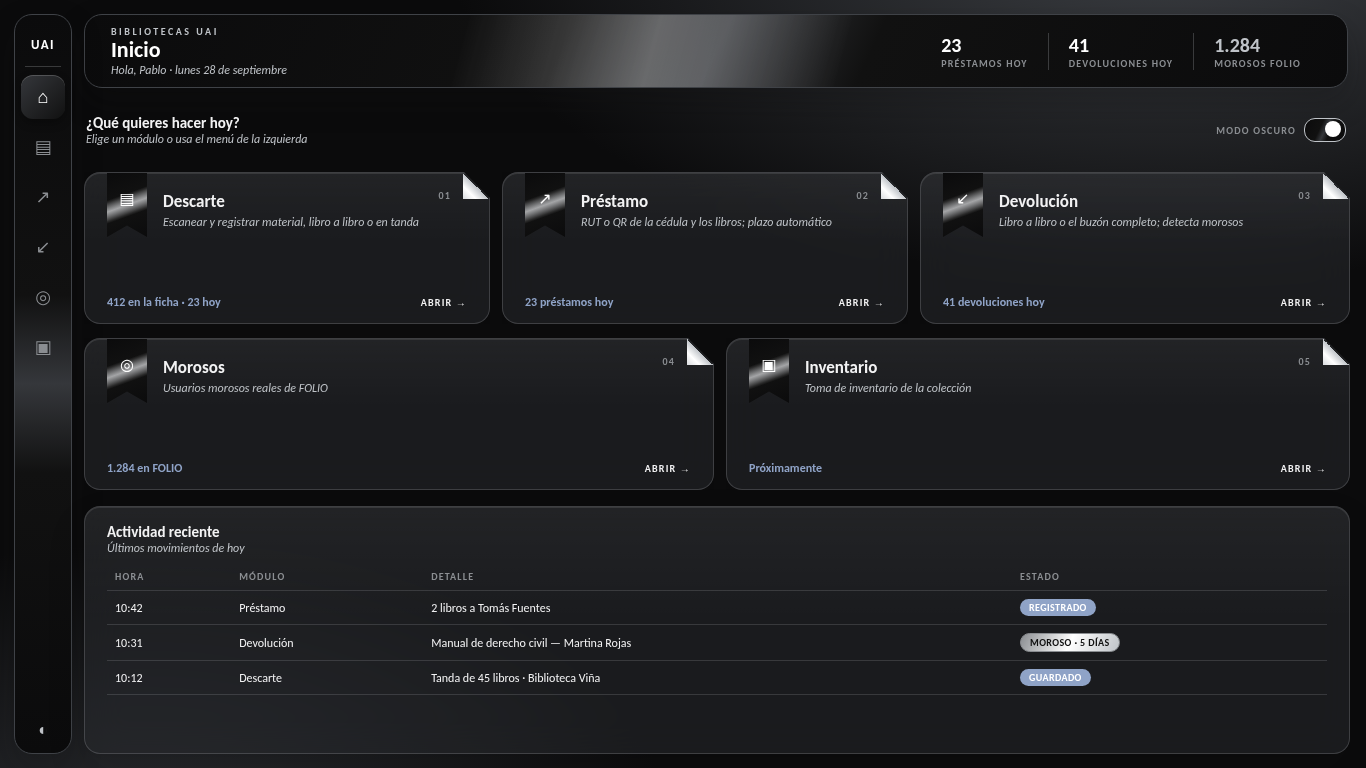
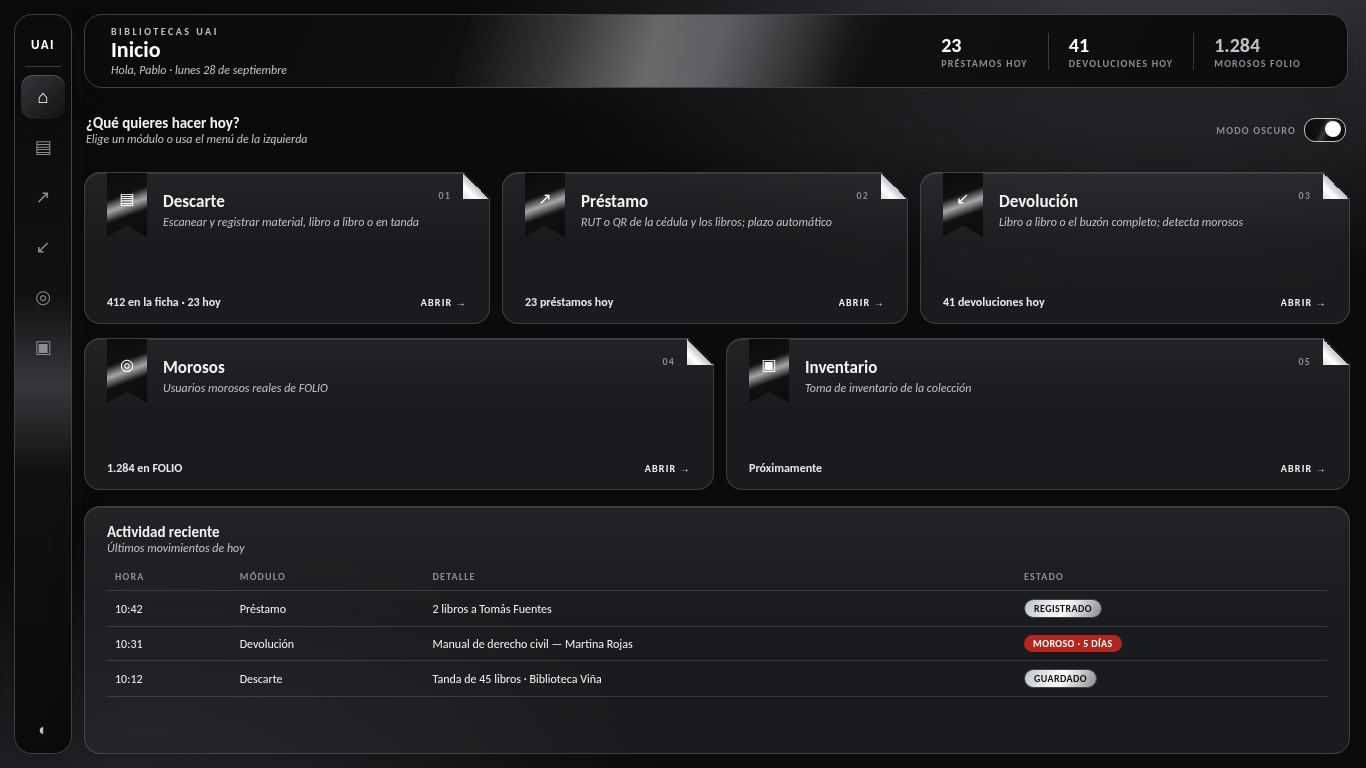
Boceto v4: sin azules (blanco→negro, plata), rojo solo morosos; carné de biblioteca en Préstamo
Claude-Session: https://claude.ai/code/session_018uFU4P9QkaWXr2H5UAix7x

diff --git a/diseno/boceto4.py b/diseno/boceto4.py
@@ -3,10 +3,10 @@ def tema(oscuro):
     if oscuro:
         return dict(bg="radial-gradient(1200px 600px at 85% -10%,#3F4247 0%,transparent 60%),radial-gradient(900px 500px at 10% 110%,#2a2c30 0%,transparent 60%),#0B0B0C",
                     glass="rgba(40,42,46,0.55)", gb="rgba(191,195,200,0.22)", hi="rgba(255,255,255,0.10)",
-                    tx="#F2F2F3", sub="#BFC3C8", mut="#8A8D91", line="rgba(191,195,200,0.18)", inp="rgba(255,255,255,0.06)", pos="#8FA3C7")
+                    tx="#F2F2F3", sub="#BFC3C8", mut="#8A8D91", line="rgba(191,195,200,0.18)", inp="rgba(255,255,255,0.06)", pos="#E6E7E9")
     return dict(bg="radial-gradient(1100px 560px at 88% -12%,#DADCDF 0%,transparent 62%),radial-gradient(900px 520px at 6% 112%,#E3E5E8 0%,transparent 60%),#F4F4F5",
                 glass="rgba(255,255,255,0.62)", gb="rgba(255,255,255,0.9)", hi="rgba(255,255,255,0.9)",
-                tx="#111111", sub="#3F4247", mut="#8A8D91", line="rgba(17,17,17,0.08)", inp="rgba(255,255,255,0.85)", pos="#1B2A4A")
+                tx="#111111", sub="#3F4247", mut="#8A8D91", line="rgba(17,17,17,0.08)", inp="rgba(255,255,255,0.85)", pos="#111111")
 F = "font-family:Carlito,Calibri,sans-serif"
 DARK = "background:linear-gradient(115deg,#0B0B0C 0%,#111111 38%,#35373B 50%,#111111 62%,#0B0B0C 100%)"
 SHINE = ("<div style='position:absolute;inset:0;background:linear-gradient(105deg,transparent 30%,rgba(255,255,255,0.55) 45%,transparent 60%);"
@@ -25,7 +25,7 @@ def css(t):
     .in{{position:absolute;box-sizing:border-box;height:34px;border-radius:10px;background:{t['inp']};border:1px solid {t['line']};{F};font-size:12px;color:{t['tx']};
          display:flex;align-items:center;padding:0 12px;box-shadow:inset 0 1px 2px rgba(17,17,17,0.06)}}
     .pill{{display:inline-block;padding:2px 9px;border-radius:999px;{F};font-size:10px;font-weight:700;letter-spacing:.4px}}
-    .pos{{background:{t['pos']};color:#fff}}
+    .pos{{background:{'linear-gradient(115deg,#35373B,#111111)' if t['pos']=='#111111' else 'linear-gradient(115deg,#BFC3C8,#FFFFFF 50%,#8A8D91)'};color:{'#fff' if t['pos']=='#111111' else '#111'};border:1px solid #3F4247}}
     .pl{{background:linear-gradient(115deg,#8A8D91,#FFFFFF 50%,#BFC3C8);color:#111;border:1px solid #8A8D91}}
     table{{width:100%;border-collapse:collapse;{F};font-size:12px;color:{t['tx']}}}
     th{{text-align:left;font-size:10px;letter-spacing:1.2px;color:{t['mut']};font-weight:700;padding:7px 8px;border-bottom:1px solid {t['line']}}}
@@ -77,7 +77,7 @@ def inicio(oscuro):
     b+=(f"<div class='g' style='left:84px;top:506px;width:1264px;height:246px'><div style='padding:16px 22px'><div class='h1'>Actividad reciente</div><div class='h2'>Últimos movimientos de hoy</div>"
         "<table style='margin-top:8px'><tr><th>HORA</th><th>MÓDULO</th><th>DETALLE</th><th>ESTADO</th></tr>"
         f"<tr><td>10:42</td><td>Préstamo</td><td>2 libros a Tomás Fuentes</td><td><span class='pill pos'>REGISTRADO</span></td></tr>"
-        f"<tr><td>10:31</td><td>Devolución</td><td>Manual de derecho civil — Martina Rojas</td><td><span class='pill pl'>MOROSO · 5 DÍAS</span></td></tr>"
+        f"<tr><td>10:31</td><td>Devolución</td><td>Manual de derecho civil — Martina Rojas</td><td><span class='pill' style='background:#B3261E;color:#fff'>MOROSO · 5 DÍAS</span></td></tr>"
         f"<tr><td>10:12</td><td>Descarte</td><td>Tanda de 45 libros · Biblioteca Viña</td><td><span class='pill pos'>GUARDADO</span></td></tr></table></div></div>")
     return screen(b,t,'v4_inicio_'+('oscuro' if oscuro else 'claro'),oscuro)
 
@@ -98,10 +98,7 @@ def prestamo():
         f"<div style='flex:1'><div class='cap'>Correo al usuario</div><div class='in' style='position:relative;margin-top:4px'>Enviar resumen<span style='margin-left:auto'>⌄</span></div></div></div>"
         f"<div class='cap' style='margin-top:12px'>Observaciones</div><div class='in' style='position:relative;margin-top:4px'></div>"
         f"<div class='p' style='margin-top:14px;font-style:italic;color:{t['mut']}'>Libro 28 días · iPad 14 · Kindle 28 · calculadora, test y mapa 1 día · colección histórica solo sala</div></div></div>")
-    b+=(f"<div class='g' style='left:570px;top:104px;width:778px;height:150px;border:1.5px solid #B3261E;box-shadow:0 0 0 3px rgba(179,38,30,.12),0 18px 40px rgba(17,17,17,.10)'><div style='padding:18px 22px'>"
-        f"<div class='cap' style='color:{t['pos']}'>● Usuario encontrado en FOLIO</div><div class='h1' style='font-size:19px;margin-top:4px'>Tomás Fuentes Díaz</div>"
-        f"<div class='h2'>RUT 19.874.302-5 · Pregrado · Facultad de Derecho · Derecho</div>"
-        f"<div style='display:flex;gap:26px;margin-top:10px;align-items:center' class='p'><span><b style='color:{t['tx']}'>2</b> préstamos activos</span><span><b style='color:{t['tx']}'>1</b> vencido hace 10 días</span><span style='margin-left:auto' class='pill pl'>MOROSO</span></div></div></div>")
+    b+=carne(570,104,778,150,'Tomás Fuentes Díaz','TF','19.874.302-5','Pregrado','Facultad de Derecho','Derecho',2,1,True)
     rows=[('000101','Imposición fiscal en los países en desarrollo','Libro','28 DÍAS','26-10-2026',1),('IP-014','iPad 10ª gen. N° 14','iPad','14 DÍAS','12-10-2026',1),
           ('CA-203','Calculadora Casio fx-991','Calculadora','1 DÍA','29-09-2026',1),('H-00931','Crónica del Reino de Chile (1865)','Col. histórica','SOLO SALA','—',0)]
     tr=''.join(f"<tr><td><b>{a}</b></td><td>{b_}</td><td>{c}</td><td><span class='pill {'pos' if ok else 'pl'}'>{d}</span></td><td>{e}</td><td style='color:{t['mut']}'>✕</td></tr>" for a,b_,c,d,e,ok in rows)
@@ -112,6 +109,25 @@ def prestamo():
         f"<div class='g' style='left:1174px;top:680px;width:174px;height:48px;display:flex;align-items:center;justify-content:center'><span class='p' style='color:{t['tx']}'>Cancelar</span></div>")
     return screen(b,t,'v4_prestamo',False)
 
+def carne(x,y,w,h,nombre,ini,rut,tipo,unidad,prog,act,venc,moroso):
+    borde = "border:1.5px solid #B3261E;box-shadow:0 0 0 4px rgba(179,38,30,.16),0 0 22px rgba(179,38,30,.35),0 18px 40px rgba(17,17,17,.25)" if moroso else "border:1px solid #3F4247;box-shadow:0 18px 40px rgba(17,17,17,.25)"
+    chip = lambda t_: f"<span style='display:inline-block;padding:3px 10px;margin-right:6px;border-radius:999px;background:rgba(255,255,255,.08);border:1px solid rgba(191,195,200,.35);{F};font-size:11px;color:#E6E7E9'>{t_}</span>"
+    stat = lambda v,l,rojo=False: (f"<div style='width:92px;height:62px;border-radius:12px;background:rgba(255,255,255,.06);border:1px solid rgba(191,195,200,.25);display:flex;flex-direction:column;align-items:center;justify-content:center'>"
+                                   f"<div style='{F};font-size:22px;font-weight:700;color:{'#FF6B5E' if rojo else '#fff'}'>{v}</div><div style='{F};font-size:10px;font-style:italic;color:#BFC3C8'>{l}</div></div>")
+    sello = ("<div style='width:74px;height:74px;border-radius:50%;display:flex;align-items:center;justify-content:center;text-align:center;"
+             + ("border:2px solid #B3261E;box-shadow:0 0 14px rgba(179,38,30,.6),inset 0 0 10px rgba(179,38,30,.35);color:#FF8A80'" if moroso else "border:2px solid #BFC3C8;box-shadow:inset 0 0 10px rgba(255,255,255,.15);color:#fff'")
+             + f"><div style='{F};font-size:11px;font-weight:700;letter-spacing:1.5px;line-height:1.2'>{'MOROSO' if moroso else 'AL DÍA'}</div></div>")
+    return (f"<div style='position:absolute;left:{x}px;top:{y}px;width:{w}px;height:{h}px;border-radius:18px;{DARK};{borde};overflow:hidden'>{SHINE}"
+            # banda de código de barras decorativa
+            f"<div style='position:absolute;right:0;top:0;bottom:0;width:10px;background:repeating-linear-gradient(180deg,rgba(191,195,200,.5) 0 2px,transparent 2px 5px,rgba(191,195,200,.3) 5px 6px,transparent 6px 9px)'></div>"
+            f"<div style='position:absolute;left:22px;top:24px;width:96px;height:96px;border-radius:50%;background:linear-gradient(135deg,#8A8D91,#FFFFFF 45%,#BFC3C8);padding:3px;box-sizing:border-box'>"
+            f"<div style='width:100%;height:100%;border-radius:50%;background:linear-gradient(135deg,#35373B,#111111);display:flex;align-items:center;justify-content:center;{F};font-size:30px;font-weight:700;color:#fff;letter-spacing:1px'>{ini}</div></div>"
+            f"<div style='position:absolute;left:138px;top:22px'><div style='{F};font-size:10px;letter-spacing:2px;font-weight:700;color:#BFC3C8'>CARNÉ DE BIBLIOTECA · FOLIO</div>"
+            f"<div style='{F};font-size:24px;font-weight:700;color:#fff;margin-top:2px'>{nombre}</div>"
+            f"<div style='{F};font-size:12px;font-style:italic;color:#BFC3C8;margin-bottom:10px'>{unidad} · {prog}</div>{chip('RUT '+rut)}{chip(tipo)}</div>"
+            f"<div style='position:absolute;right:30px;top:38px;display:flex;gap:10px;align-items:center'>{stat(act,'activos')}{stat(venc,'vencidos',venc>0)}{sello}</div></div>")
+
+ROJO = 'color:#E5534B;font-weight:700'
 def morosos():
     t=tema(True)
     b=header(t,'Morosos','Datos reales de FOLIO · consultado 10:42')+rail(t,'Morosos')
@@ -125,7 +141,7 @@ def morosos():
     rows=[('10891774-1','Tomás Fuentes Díaz','Pregrado','Biblioteca Viña',3,'2.110','NIVEL 3'),('17654321-K','Camila Soto Vera','Postgrado','Biblioteca Postgrado',1,'940','NIVEL 2'),
           ('19874302-5','Diego Rojas Muñoz','Pregrado','Pregrado Edif. A',2,'412','NIVEL 1'),('20456789-K','Martina Pérez León','Pregrado','Pregrado Edif. F',1,'35','NIVEL 0'),
           ('15234876-2','Andrés Silva Toro','Académico','Biblioteca Viña',4,'28','NIVEL 0')]
-    tr=''.join(f"<tr style='{'box-shadow:inset 3px 0 0 #B3261E' if n in ('NIVEL 3','NIVEL 2') else ''}'><td><b>{a}</b></td><td>{b_}</td><td>{c}</td><td>{d}</td><td>{e}</td><td>{f_}</td><td><span class='pill {'pos' if n=='NIVEL 0' else 'pl'}'>{n}</span></td></tr>" for a,b_,c,d,e,f_,n in rows)
+    tr=''.join(f"<tr style='{'box-shadow:inset 3px 0 0 #B3261E' if n in ('NIVEL 3','NIVEL 2') else ''}'><td><b>{a}</b></td><td>{b_}</td><td>{c}</td><td>{d}</td><td>{e}</td><td style='{ROJO if n in ('NIVEL 3','NIVEL 2') else ''}'>{f_}</td><td><span class='pill {'pos' if n=='NIVEL 0' else 'pl'}'>{n}</span></td></tr>" for a,b_,c,d,e,f_,n in rows)
     b+=(f"<div class='g' style='left:84px;top:250px;width:1264px;height:430px'><div style='padding:18px 22px'><div class='h1'>Usuarios morosos</div><div class='h2'>Ordenados por días de atraso · la línea roja marca más de 2 años</div>"
         f"<table style='margin-top:10px'><tr><th>RUT</th><th>NOMBRE</th><th>TIPO</th><th>BIBLIOTECA</th><th>LIBROS</th><th>DÍAS</th><th>NIVEL</th></tr>{tr}</table></div></div>")
     b+=(f"<div style='position:absolute;left:84px;top:694px;width:320px;height:44px;border-radius:14px;background:linear-gradient(115deg,#8A8D91,#FFFFFF 50%,#BFC3C8);border:1px solid #8A8D91;display:flex;align-items:center;justify-content:center;{F};font-size:12px;font-weight:700;letter-spacing:2px;color:#111'>↻  ACTUALIZAR DESDE FOLIO</div>")
